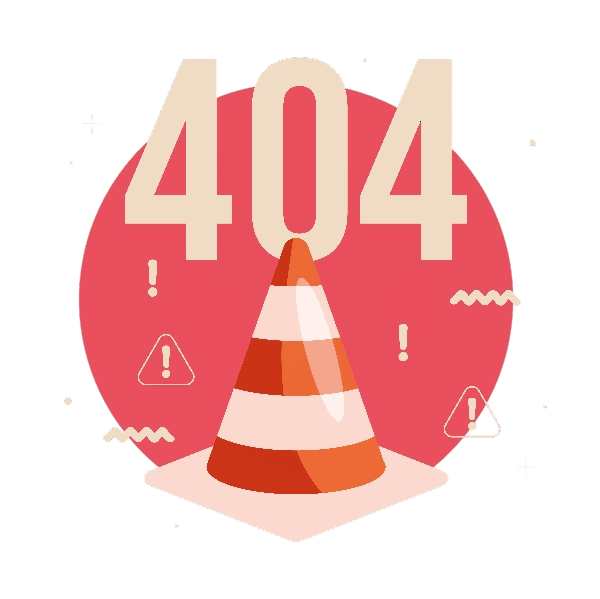
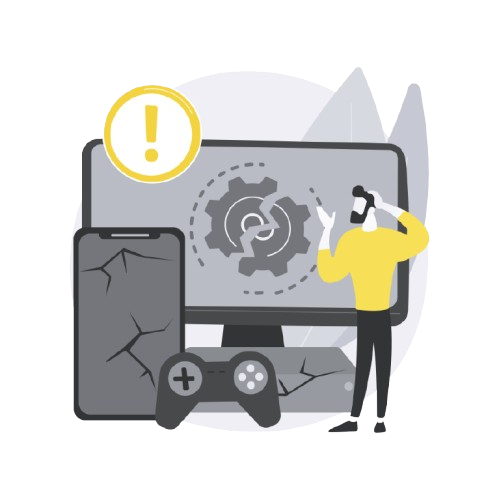
added default 404 page fallback

diff --git a/frontend/src/pages/Desktop/pages/PageNotFound.jsx b/frontend/src/pages/Desktop/pages/PageNotFound.jsx
@@ -1,0 +1,32 @@
+import { Link } from "react-router-dom";
+
+const PageNotFound = () => {
+  return (
+    <div className="page-404 container-fluid min-vh-100 d-flex align-items-center justify-content-center bg-yellow-primary">
+      
+      <div className="text-center px-3">
+        
+        {/* Big 404 */}
+        <div className="page-not-found">
+            <img src="/img/404.png" alt="404 Page Not Found" />
+        </div>
+
+        {/* Message */}
+        <h1 className="mb-2 text-dark fw-semibold">Device switch detected</h1>
+
+        <p className="mb-4 text-dark">
+          It looks like you've switched devices. You may have to re-login to enter desktop mode.
+        </p>
+
+        {/* Action buttons */}
+        <div className="d-flex justify-content-center flex-wrap">
+          <Link to="/" className="btn fw-semibold px-5 border-0 py-3 btn-dark">
+            Go Home
+          </Link>
+        </div>
+      </div>
+    </div>
+  );
+};
+
+export default PageNotFound;

diff --git a/frontend/src/pages/Mobile/pages/PageNotFound.jsx b/frontend/src/pages/Mobile/pages/PageNotFound.jsx
@@ -1,0 +1,32 @@
+import { Link } from "react-router-dom";
+
+const PageNotFound = () => {
+  return (
+    <div className="page-404 container-fluid min-vh-100 d-flex align-items-center justify-content-center bg-yellow-primary">
+      
+      <div className="text-center px-3">
+        
+        {/* Big 404 */}
+        <div className="page-not-found">
+            <img src="/img/404.png" alt="404 Page Not Found" />
+        </div>
+
+        {/* Message */}
+        <h1 className="mb-2 text-dark fw-semibold">Device switch detected</h1>
+
+        <p className="mb-4 text-dark">
+          It looks like you've switched devices. You may have to re-login to enter mobile mode.
+        </p>
+
+        {/* Action buttons */}
+        <div className="d-flex justify-content-center flex-wrap">
+          <Link to="/" className="btn fw-semibold px-5 py-3 border-0 btn-dark">
+            Go Home
+          </Link>
+        </div>
+      </div>
+    </div>
+  );
+};
+
+export default PageNotFound;

diff --git a/frontend/src/pages/Mobile/MobileView.jsx b/frontend/src/pages/Mobile/MobileView.jsx
@@ -14,16 +14,21 @@ import AccountType from "./pages/AccountType";
 import CreatePersonalWallet from "./pages/CreatePersonalWallet";
 import CreatePersonalCurrency from "./pages/CreatePersonalCurrency";
 import CurrencyDetails from "./pages/CurrencyDetails";
+import Footer from "../../components/Footer";
+import PageNotFound from "./pages/PageNotFound";
 
 const MobileView = () => {
+  const isAuthenticated = !!localStorage.getItem("token");
+
   return (
-    <div className="page-wrapper">
+    <div>
+      <div className="page-wrapper">
         <Routes>
           {/* Public routes */}
           <Route path="/" element={<Home />} />
           <Route path="/register" element={<Register />} />
           <Route path="/login" element={<Login />} />
-          <Route path="/select-account-type" element={<AccountType/>}/>
+          <Route path="/select-account-type" element={<AccountType />} />
 
           {/* Protected routes */}
           <Route element={<PrivateRoute />}>
@@ -38,9 +43,13 @@ const MobileView = () => {
             <Route path="/create-personal-wallet/:id" element={<CreatePersonalWallet />} />
             <Route path="/create-personal-currency/:id" element={<CreatePersonalCurrency />} />
           </Route>
+
+          <Route path="*" element={<PageNotFound />} />
         </Routes>
       </div>
-  )
-}
+      {isAuthenticated && <Footer />}
+    </div>
+  );
+};
 
 export default MobileView

diff --git a/frontend/src/index.css b/frontend/src/index.css
@@ -87,3 +87,17 @@ body {
 .fs-36 {
   font-size: 36px !important;
 }
+
+.page-404 {
+  position: absolute;
+  top: 0;
+  overflow-x: hidden;
+}
+
+.page-not-found img {
+  height: 400px;
+}
+
+.page-404 button, .page-404 a {
+  border-radius: 30px;  
+}

diff --git a/frontend/src/App.jsx b/frontend/src/App.jsx
@@ -2,7 +2,6 @@ import { useState, useEffect } from "react";
 
 import MobileView from "./pages/Mobile/MobileView";
 import DesktopView from "./pages/Desktop/DesktopView";
-import Footer from "./components/Footer";
 
 
 const App = () => {
@@ -21,7 +20,6 @@ const App = () => {
     return (
       <div className="page-wrapper">
         <MobileView />
-        <Footer />
       </div>
     );
   } else {

diff --git a/frontend/src/pages/Desktop/DesktopView.jsx b/frontend/src/pages/Desktop/DesktopView.jsx
@@ -2,12 +2,14 @@ import { Routes, Route } from "react-router-dom";
 
 import Home from "./pages/Home";
 import Dashboard from "./pages/personal/Dashboard";
+import PageNotFound from "./pages/PageNotFound";
 
 const DesktopView = () => {
   return (
     <Routes>
       <Route path="/" element={<Home />} />
       <Route path="/personal/dashboard" element={<Dashboard />} />
+      <Route path="*" element={<PageNotFound />} />
     </Routes>
   )
 }